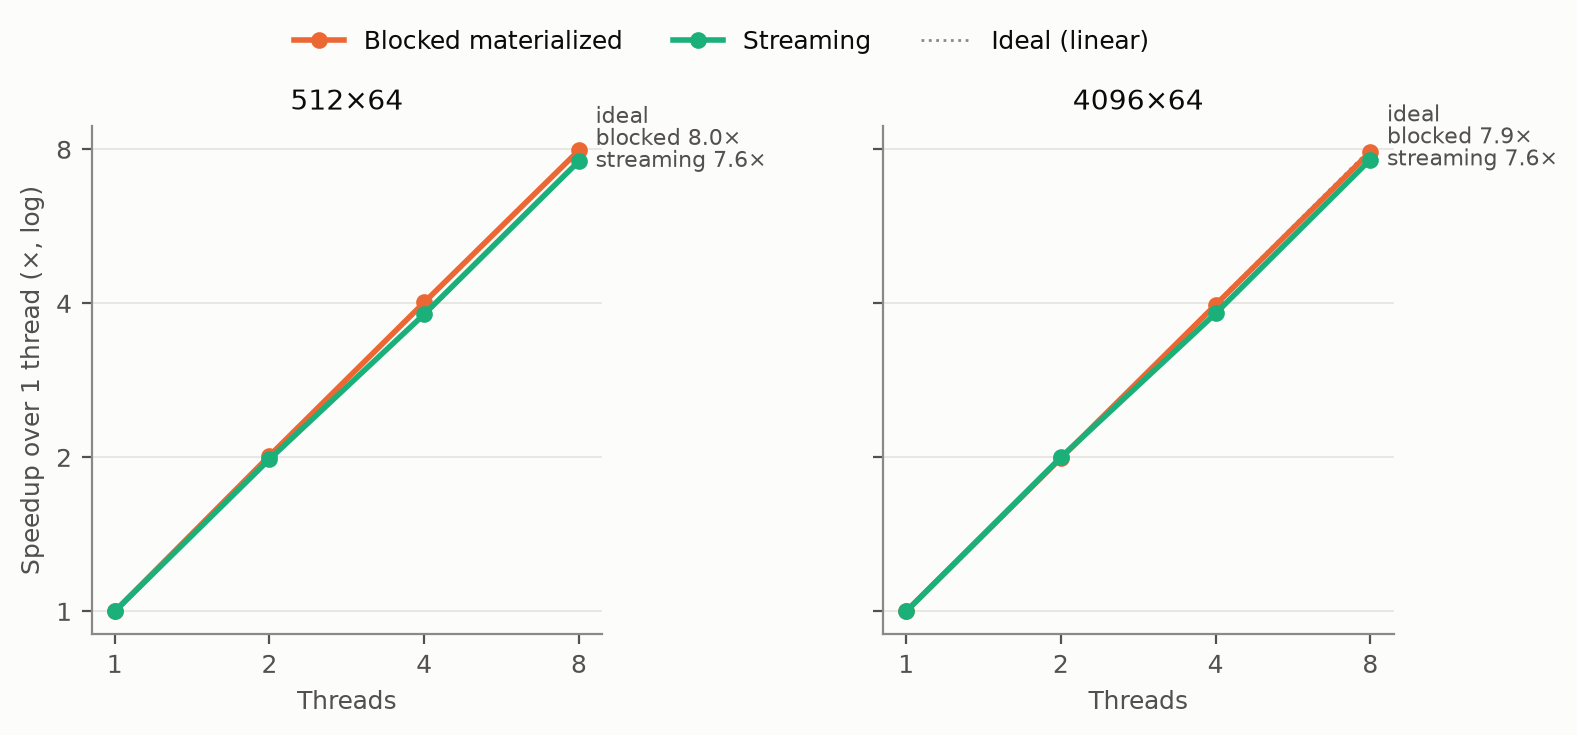
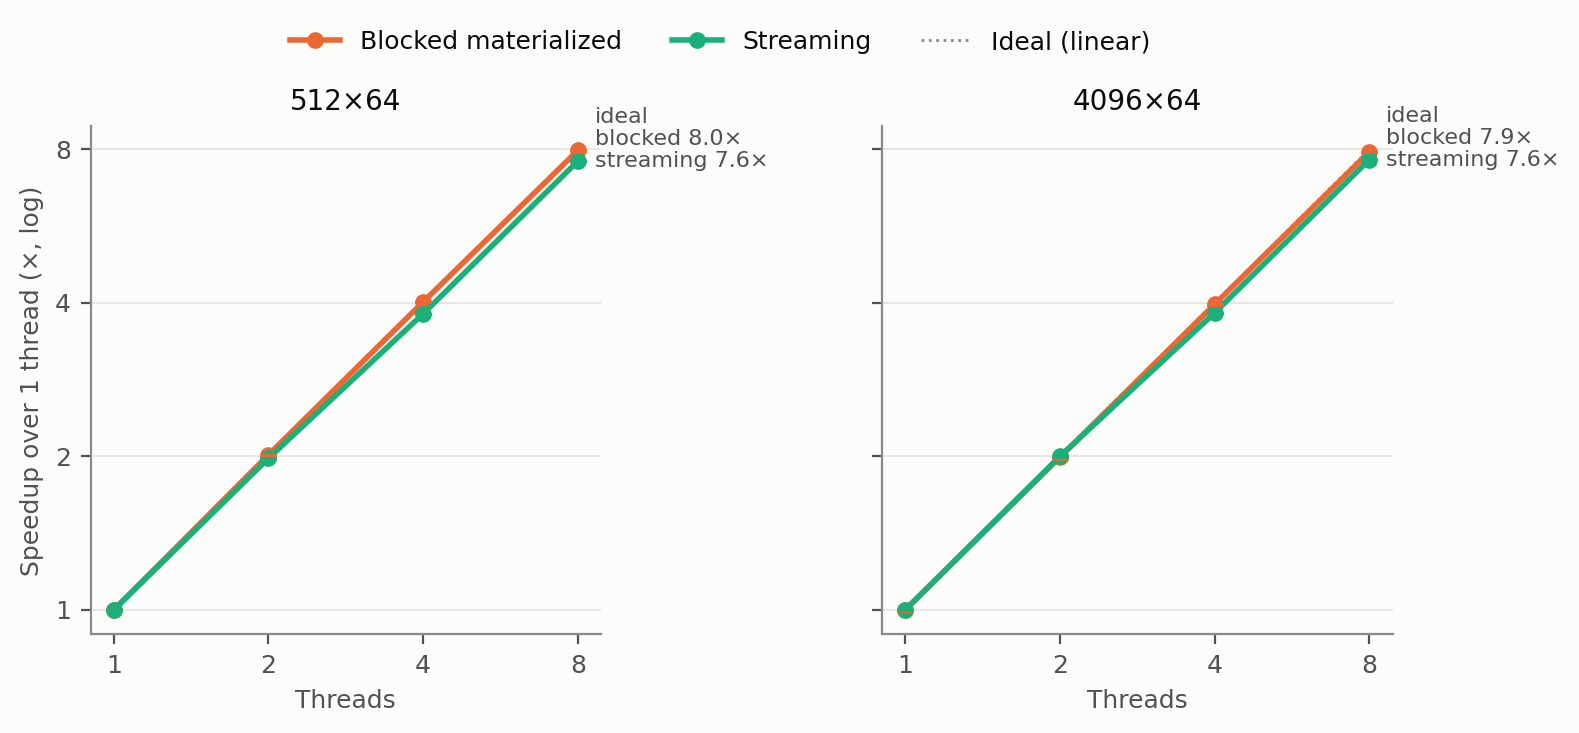
add additional scripts from report gaps

diff --git a/scripts/perf_profile.py b/scripts/perf_profile.py
@@ -5,6 +5,7 @@ twice: with timed repeats and with none. The difference, divided by the extra
 calls, removes input loading, allocation and validation, so every count is per
 kernel call. Counted per process (all threads):
   cache group  cycles, instructions, L1D loads/misses, LLC loads/misses
+  L2 group     L2 requests and misses (Intel l2_rqsts.*; skipped if unsupported)
   FP group     single-precision scalar, 128-bit and 256-bit FP instructions;
                FLOPs = scalar + 4*128b + 8*256b (FMA counts twice in these events)
   DRAM group   uncore_imc data reads/writes, system-wide: needs
@@ -31,6 +32,7 @@ import numpy as np  # noqa: E402
 
 GROUPS = {
     "cache": ["cycles", "instructions", "L1-dcache-loads", "L1-dcache-load-misses", "LLC-loads", "LLC-load-misses"],
+    "l2": ["l2_rqsts.references", "l2_rqsts.miss"],
     "fp": ["fp_arith_inst_retired.scalar_single", "fp_arith_inst_retired.128b_packed_single",
            "fp_arith_inst_retired.256b_packed_single"],
     "dram": ["uncore_imc/data_reads/", "uncore_imc/data_writes/"],
@@ -131,6 +133,9 @@ def main():
                         l1d_miss_rate=per_call["L1-dcache-load-misses"] / per_call["L1-dcache-loads"],
                         llc_loads=per_call["LLC-loads"], llc_misses=per_call["LLC-load-misses"],
                         llc_miss_bytes=64 * per_call["LLC-load-misses"],
+                        l2_references=per_call.get("l2_rqsts.references", ""),
+                        l2_miss_rate=per_call["l2_rqsts.miss"] / per_call["l2_rqsts.references"]
+                        if "l2" in groups and per_call.get("l2_rqsts.references") else "",
                         fp_flops=fp if "fp" in groups else "",
                         vector_flop_share=(1 - per_call["fp_arith_inst_retired.scalar_single"] / fp)
                         if "fp" in groups and fp else "",

diff --git a/scripts/stream_triad.c b/scripts/stream_triad.c
@@ -1,0 +1,33 @@
+/* Minimal STREAM-style triad, a[i] = b[i] + s*c[i], to measure sustainable DRAM
+ * bandwidth for the roofline comparison in the report. Arrays are far larger
+ * than the L3 cache. Bandwidth counts 24 bytes per element (two reads, one
+ * write), as STREAM does; write-allocate traffic is not counted.
+ *   cc -O3 -march=native -fopenmp scripts/stream_triad.c -o stream_triad
+ *   OMP_NUM_THREADS=8 OMP_PLACES=cores OMP_PROC_BIND=close ./stream_triad
+ */
+#include <omp.h>
+#include <stdio.h>
+#include <stdlib.h>
+
+int main(int argc, char **argv) {
+    const size_t n = argc > 1 ? strtoull(argv[1], NULL, 10) : (size_t)1 << 25; /* 256 MiB per array */
+    const int trials = 10;
+    double *a = malloc(n * sizeof *a), *b = malloc(n * sizeof *b), *c = malloc(n * sizeof *c);
+    if (!a || !b || !c) { fprintf(stderr, "allocation failed\n"); return 1; }
+#pragma omp parallel for schedule(static)
+    for (size_t i = 0; i < n; ++i) { a[i] = 0.0; b[i] = 1.0; c[i] = 2.0; } /* first touch per thread */
+    double best = 1e30, scalar = 3.0;
+    for (int t = 0; t < trials; ++t) {
+        double start = omp_get_wtime();
+#pragma omp parallel for schedule(static)
+        for (size_t i = 0; i < n; ++i) a[i] = b[i] + scalar * c[i];
+        double elapsed = omp_get_wtime() - start;
+        if (t > 0 && elapsed < best) best = elapsed; /* skip the first trial */
+    }
+    double check = 0.0;
+    for (size_t i = 0; i < n; i += n / 16) check += a[i];
+    printf("threads,array_mib,best_s,triad_gb_s,check\n%d,%.0f,%.6f,%.2f,%.1f\n", omp_get_max_threads(),
+           n * sizeof(double) / 1048576.0, best, 24.0 * n / best / 1e9, check);
+    free(a); free(b); free(c);
+    return 0;
+}

diff --git a/scripts/plot_results.py b/scripts/plot_results.py
@@ -15,7 +15,7 @@ Figures written to --out:
   packing_experiment.png   blocked variants (PV order, K packing) over the original, per shape and thread count
   speedup_1thread.png      blocked and streaming speedup over the baseline, every shape, 1 thread
   vectorization.png        no-vec ablation: SIMD gain per family, tiling gain without SIMD
-  thread_scaling.png       speedup over the same kernel at 1 thread, one panel per shape
+  thread_scaling.png       speedup over the same kernel at 1 thread (IQR bars), one panel per shape
   tile_tuning.png          tuning grid, time relative to 32x32, selected tiles outlined
 Scratch is allocated capacity reported by the kernels, not measured DRAM traffic or RSS.
 """
@@ -287,6 +287,14 @@ def thread_scaling(scaling, out):
                 continue
             xs = [r["threads"] for r in series]
             ys = [1.0 if r["threads"] == 1 else r["speedup_vs_1_thread"] for r in series]
+            # IQR of each thread count's samples, as speedup over the 1-thread median:
+            # [median_1 / q3_T, median_1 / q1_T].
+            one = next((r["median_ms"] for r in series if r["threads"] == 1), None)
+            if one is not None:
+                low = [y - one / r["q3_ms"] for r, y in zip(series, ys)]
+                high = [one / r["q1_ms"] - y for r, y in zip(series, ys)]
+                ax.errorbar(xs, ys, yerr=[low, high], fmt="none", ecolor=FAMILIES[family][1],
+                            elinewidth=1.2, capsize=3, zorder=3)
             ax.plot(xs, ys, color=FAMILIES[family][1], marker="o")
             ends.append((xs[-1], ys[-1], f"{family} {ys[-1]:.1f}×"))
         log2_axis(ax, threads, "Threads")
